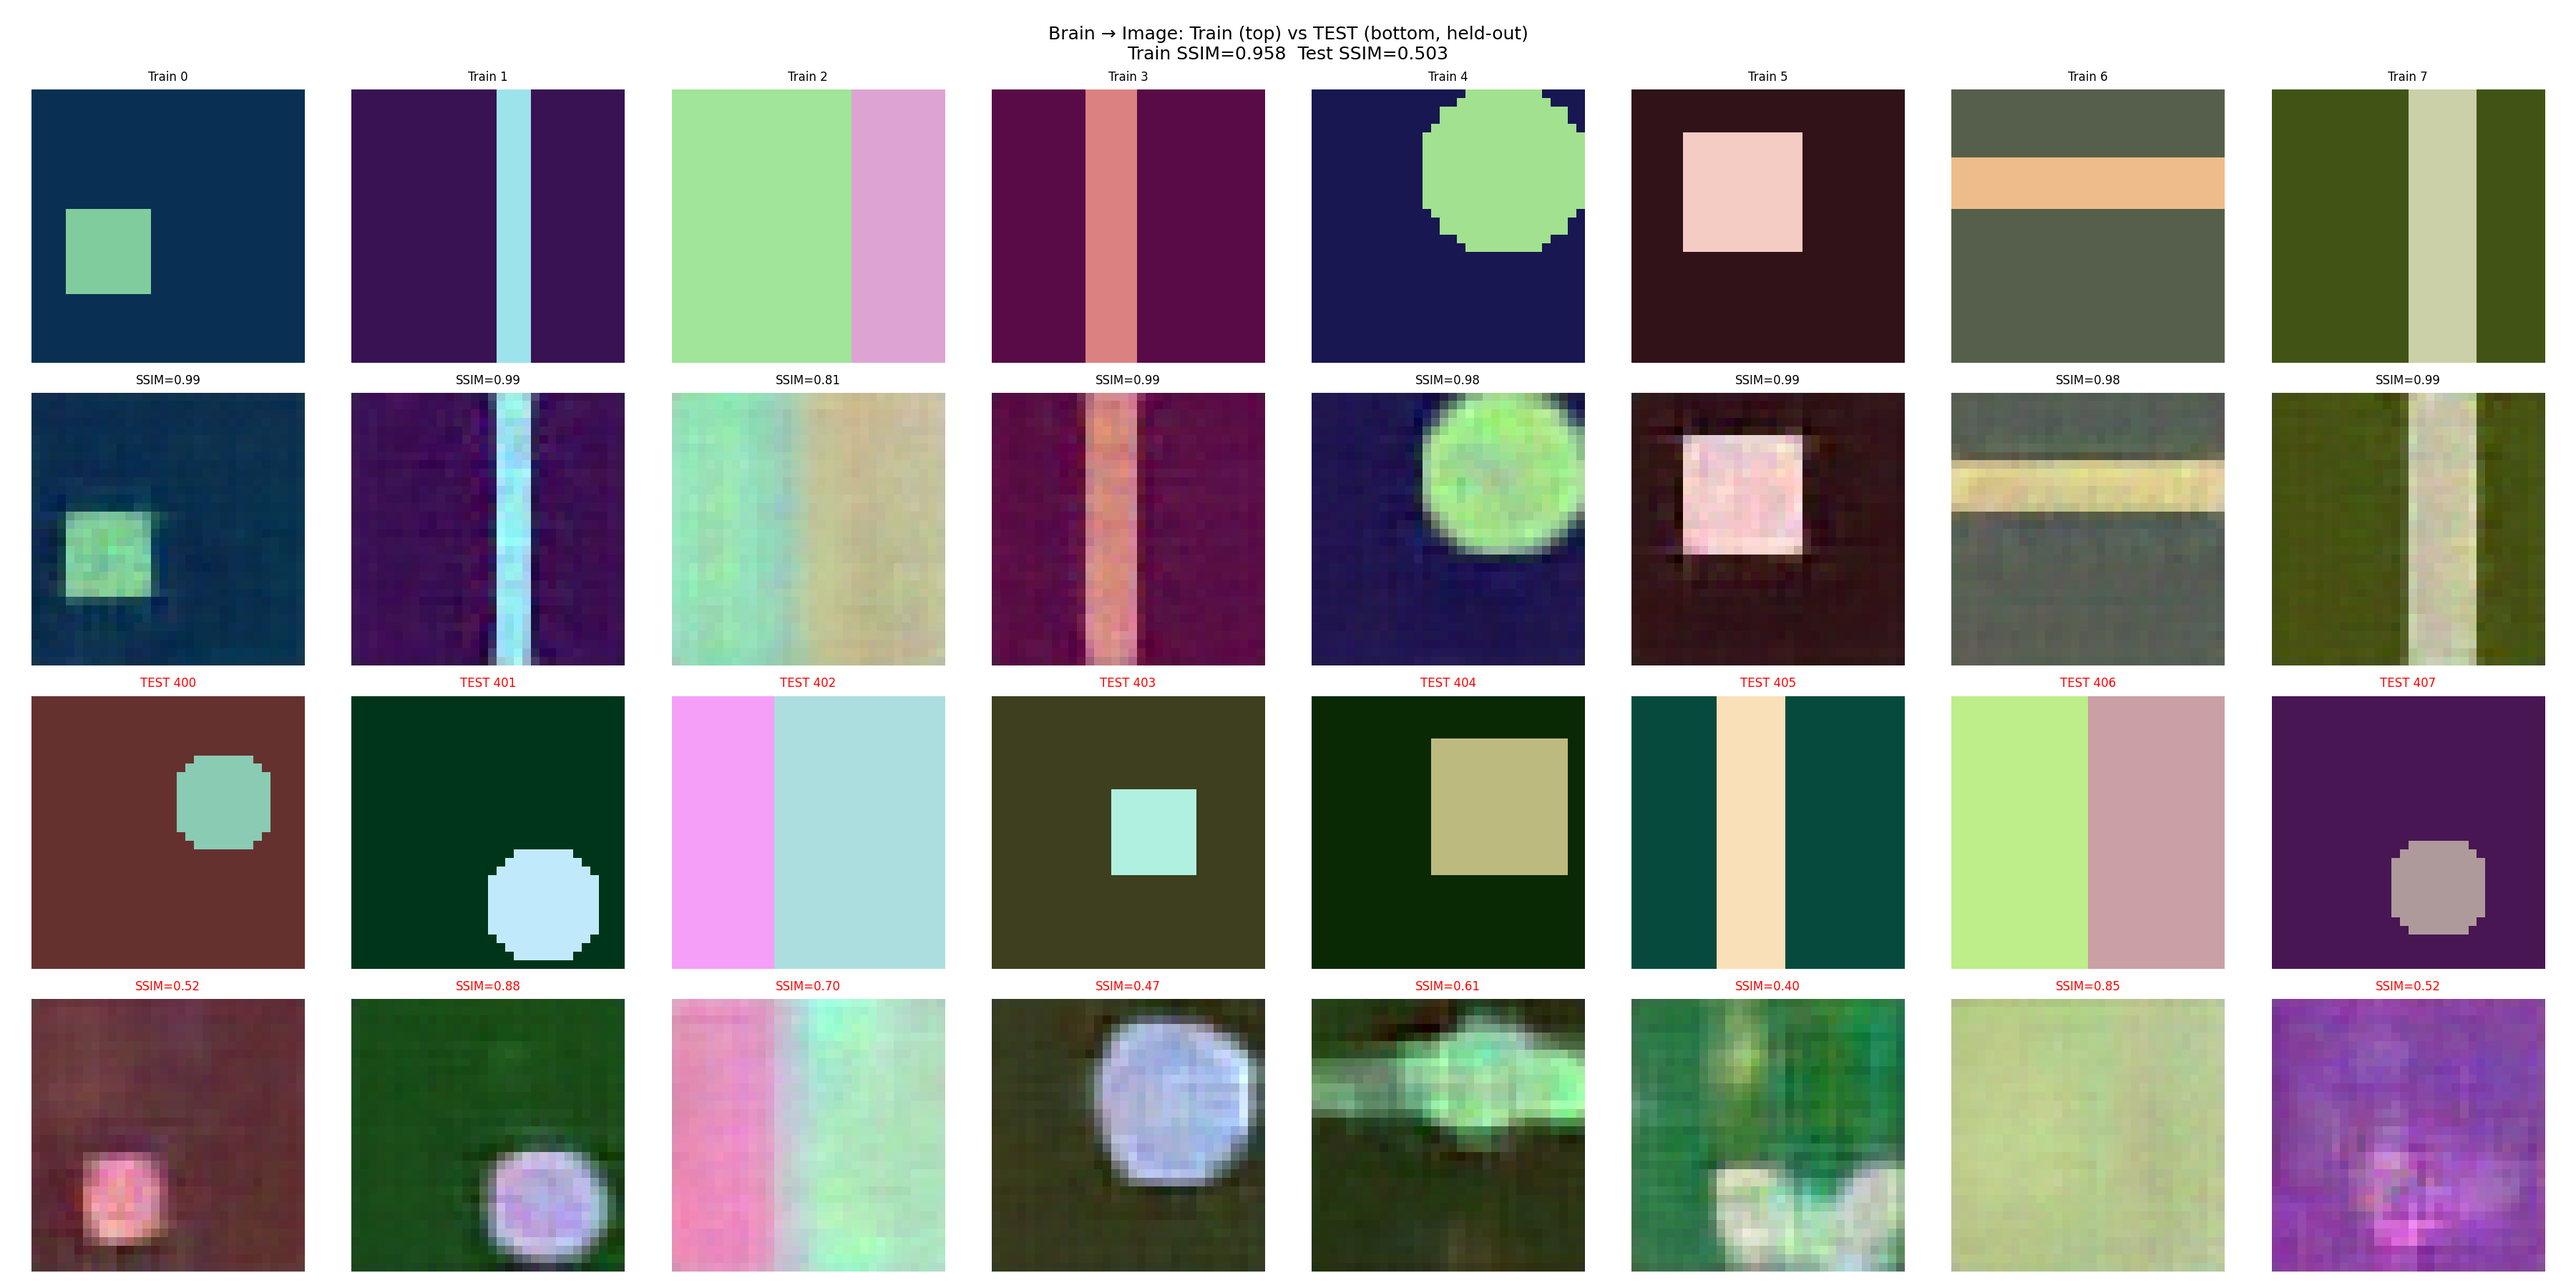
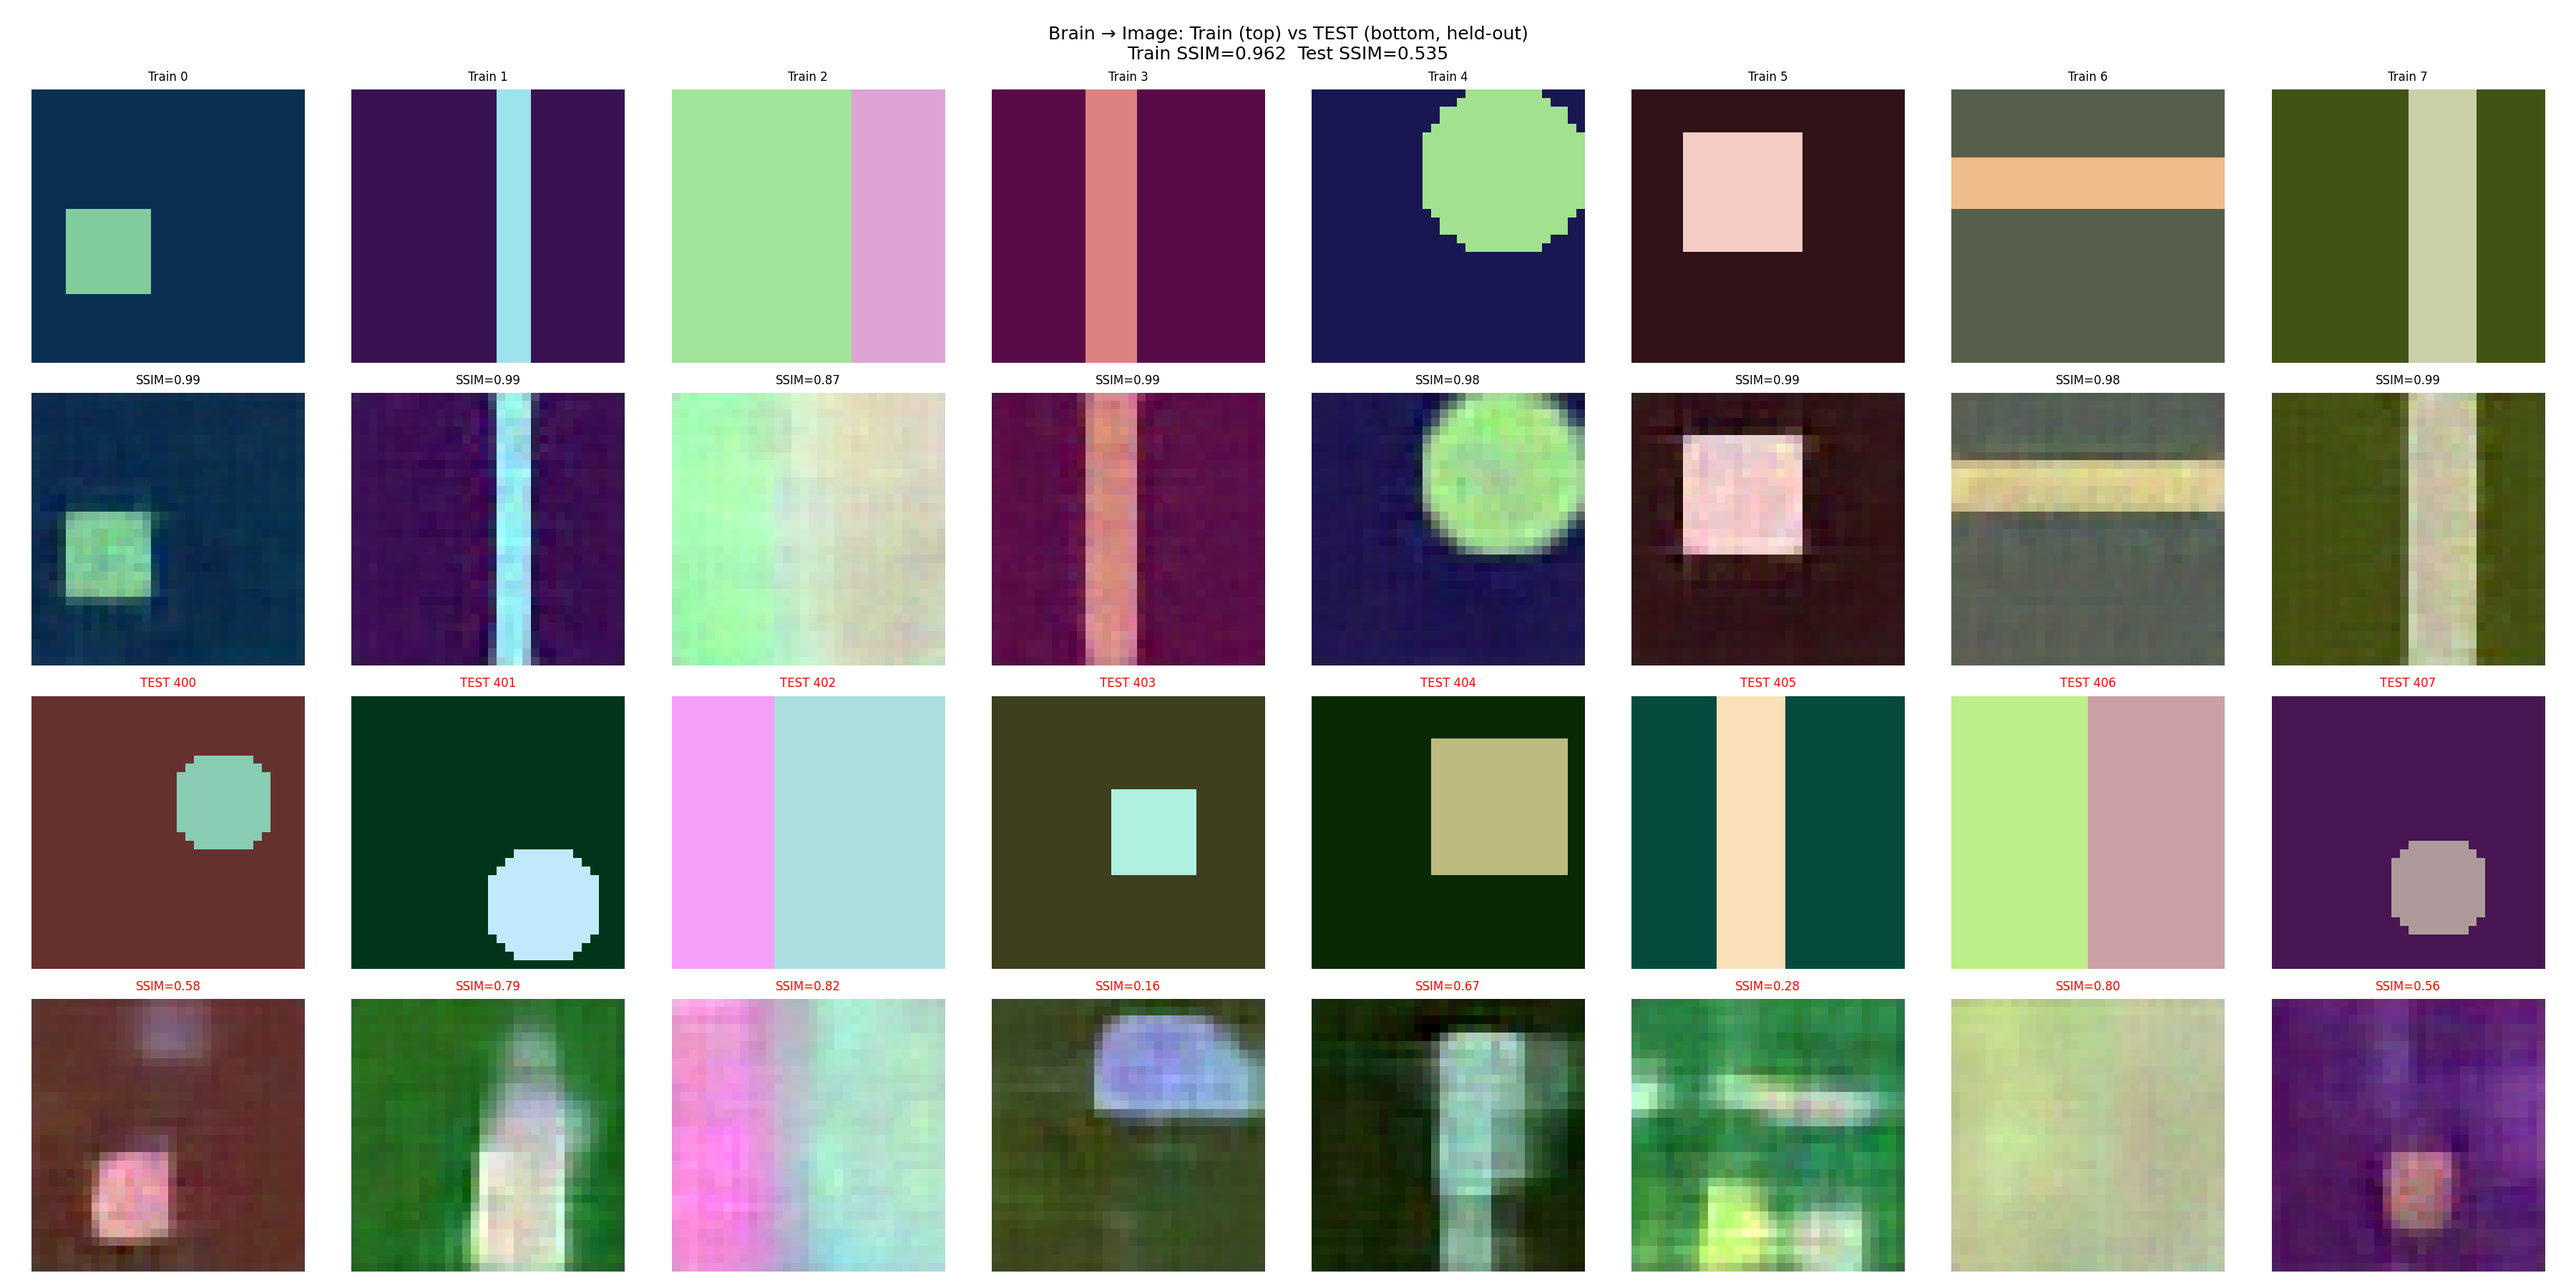
chore: refresh train_demo outputs — cos=0.871, SSIM=0.535, gap=-0.003
Fresh run with latest code. Slightly improved over previous run:
- Image: cos 0.858→0.871, SSIM 0.503→0.535, gap -0.005→-0.003
- Updated README demo table to match

diff --git a/README.md b/README.md
@@ -147,8 +147,8 @@ ema.restore(model, originals)
 
 | Modality | Test cos | SSIM | Above random | vs Linear | Diverse? |
 |----------|----------|------|--------------|-----------|----------|
-| Image    | 0.858    | 0.503 | +0.173      | -0.005    | ✓ (0.888) |
-| Audio    | 0.893    | —    | +0.349       | -0.014    | ✓ (0.727) |
+| Image    | 0.871    | 0.535 | +0.186      | -0.003    | ✓ (0.889) |
+| Audio    | 0.893    | —    | +0.349       | -0.016    | ✓ (0.727) |
 | Text     | 0/100    | —    | expected     | —         | —        |
 
 **Image reconstructions** (top: train, bottom: held-out test):
